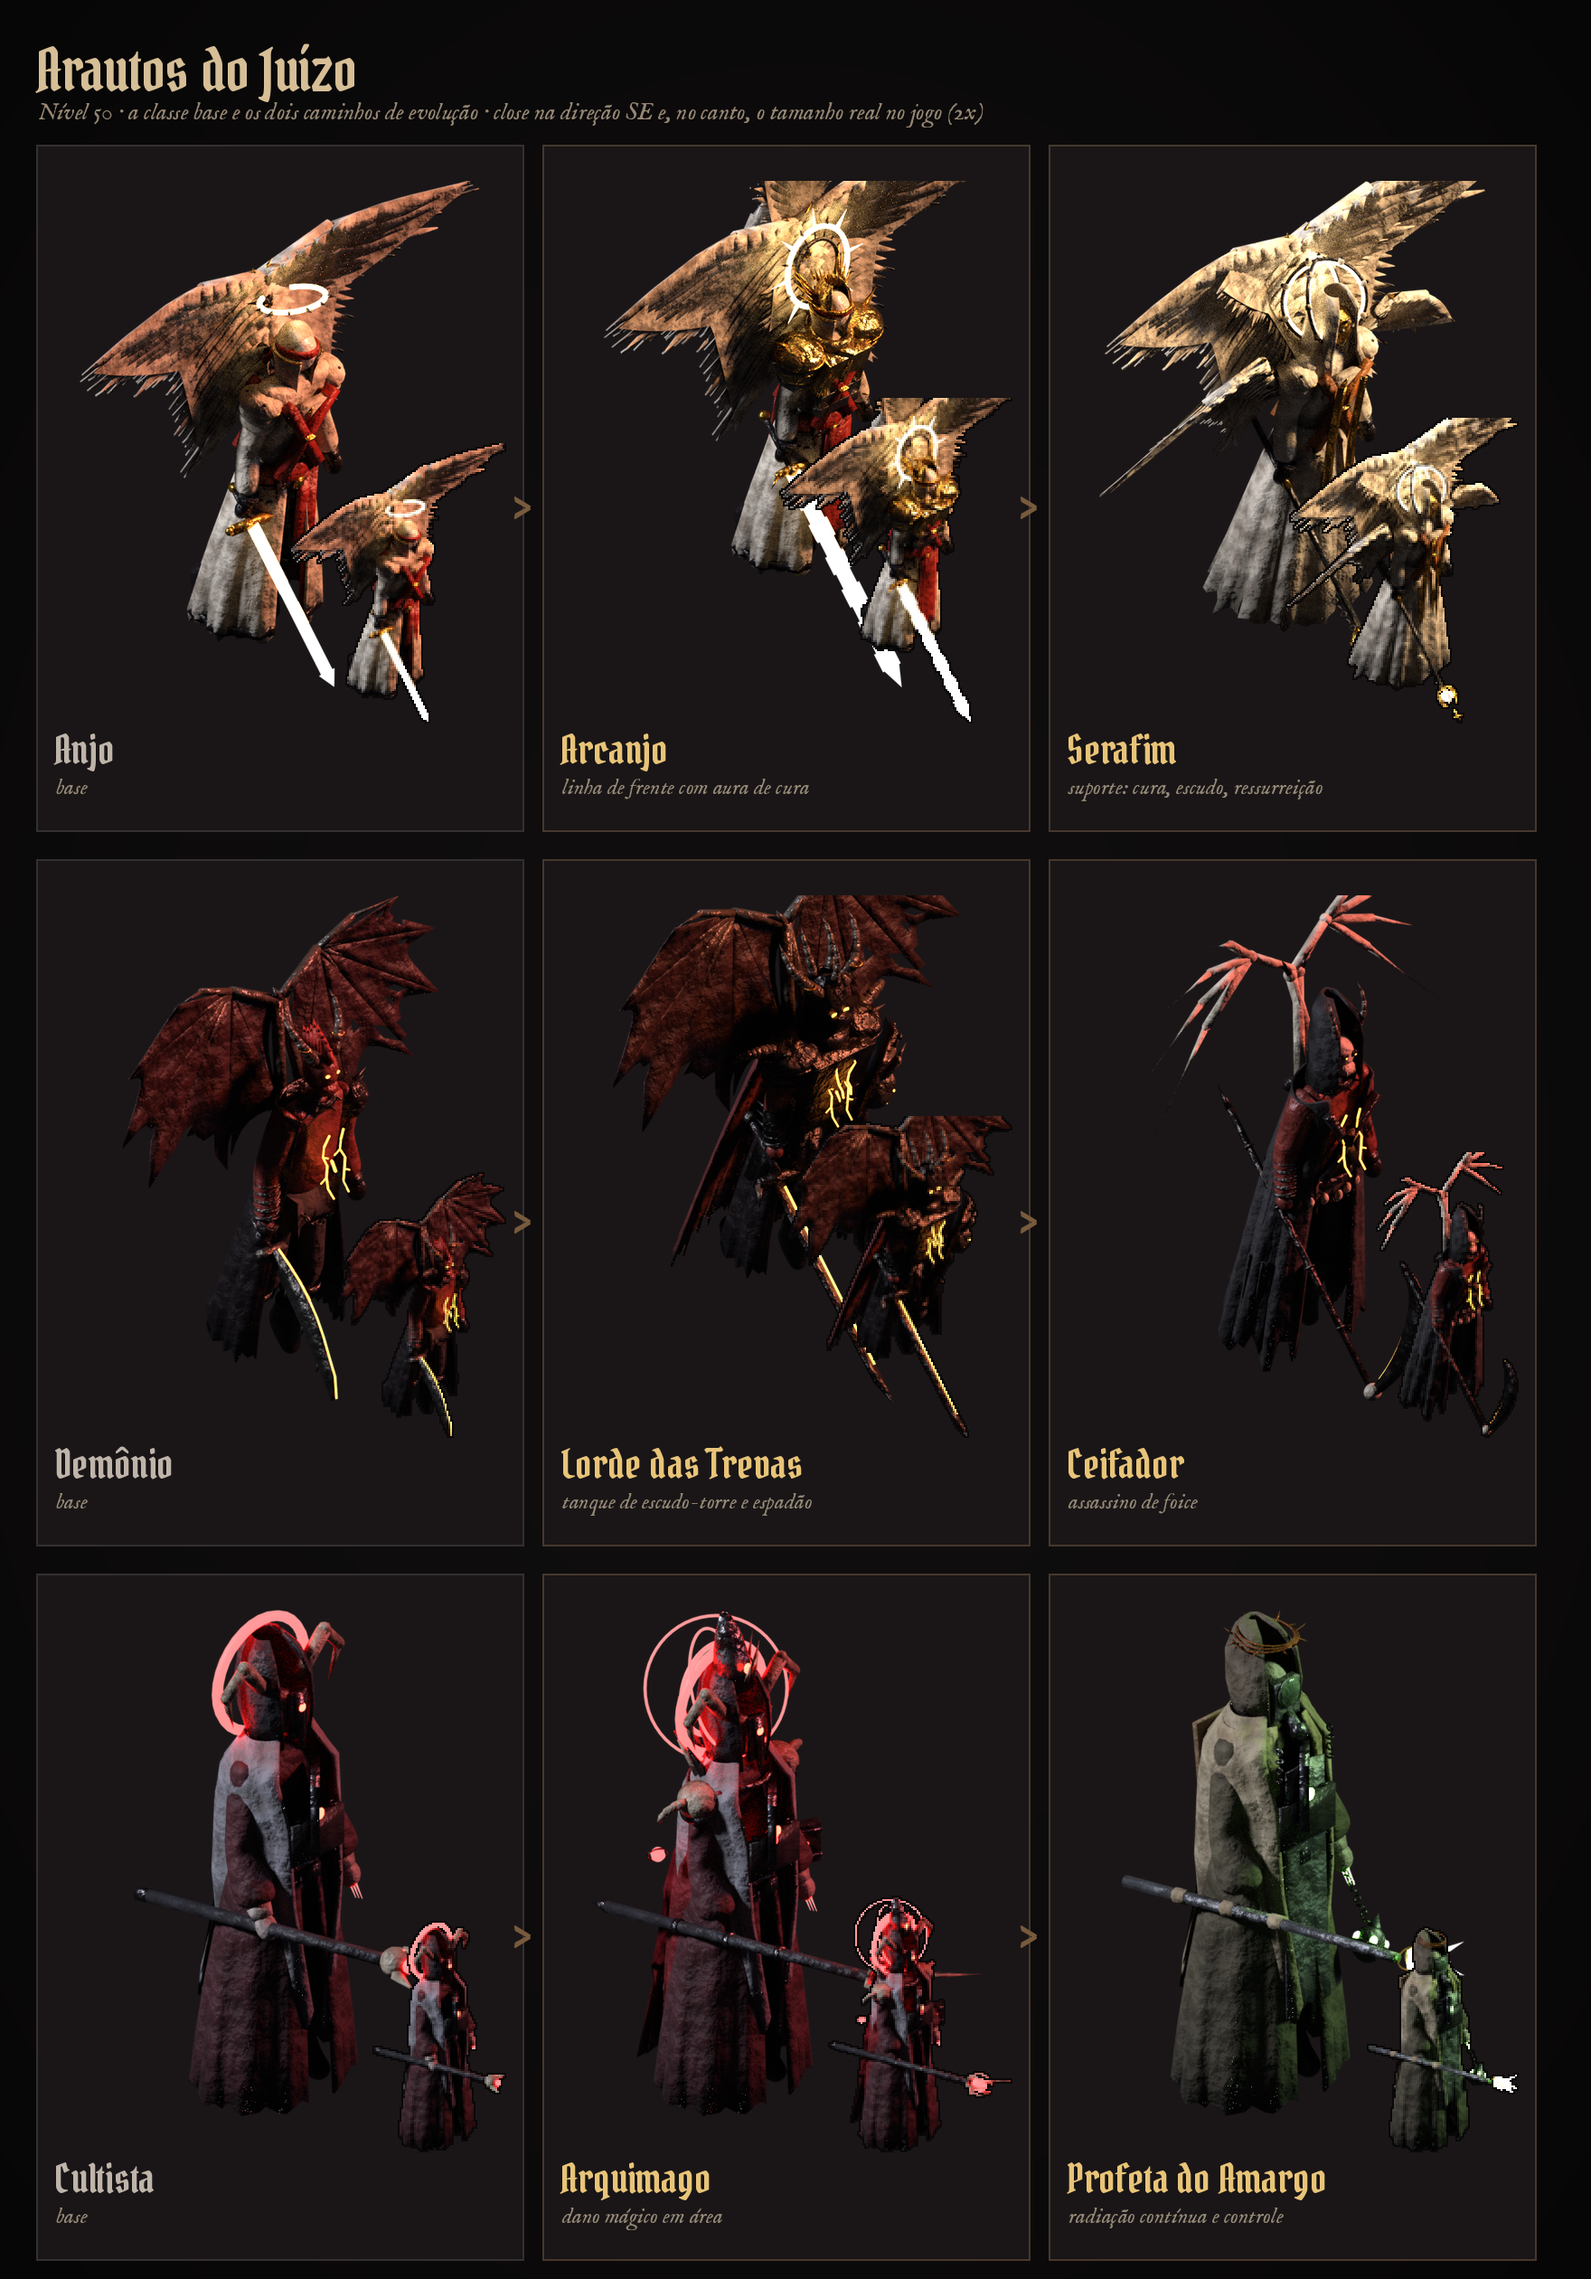
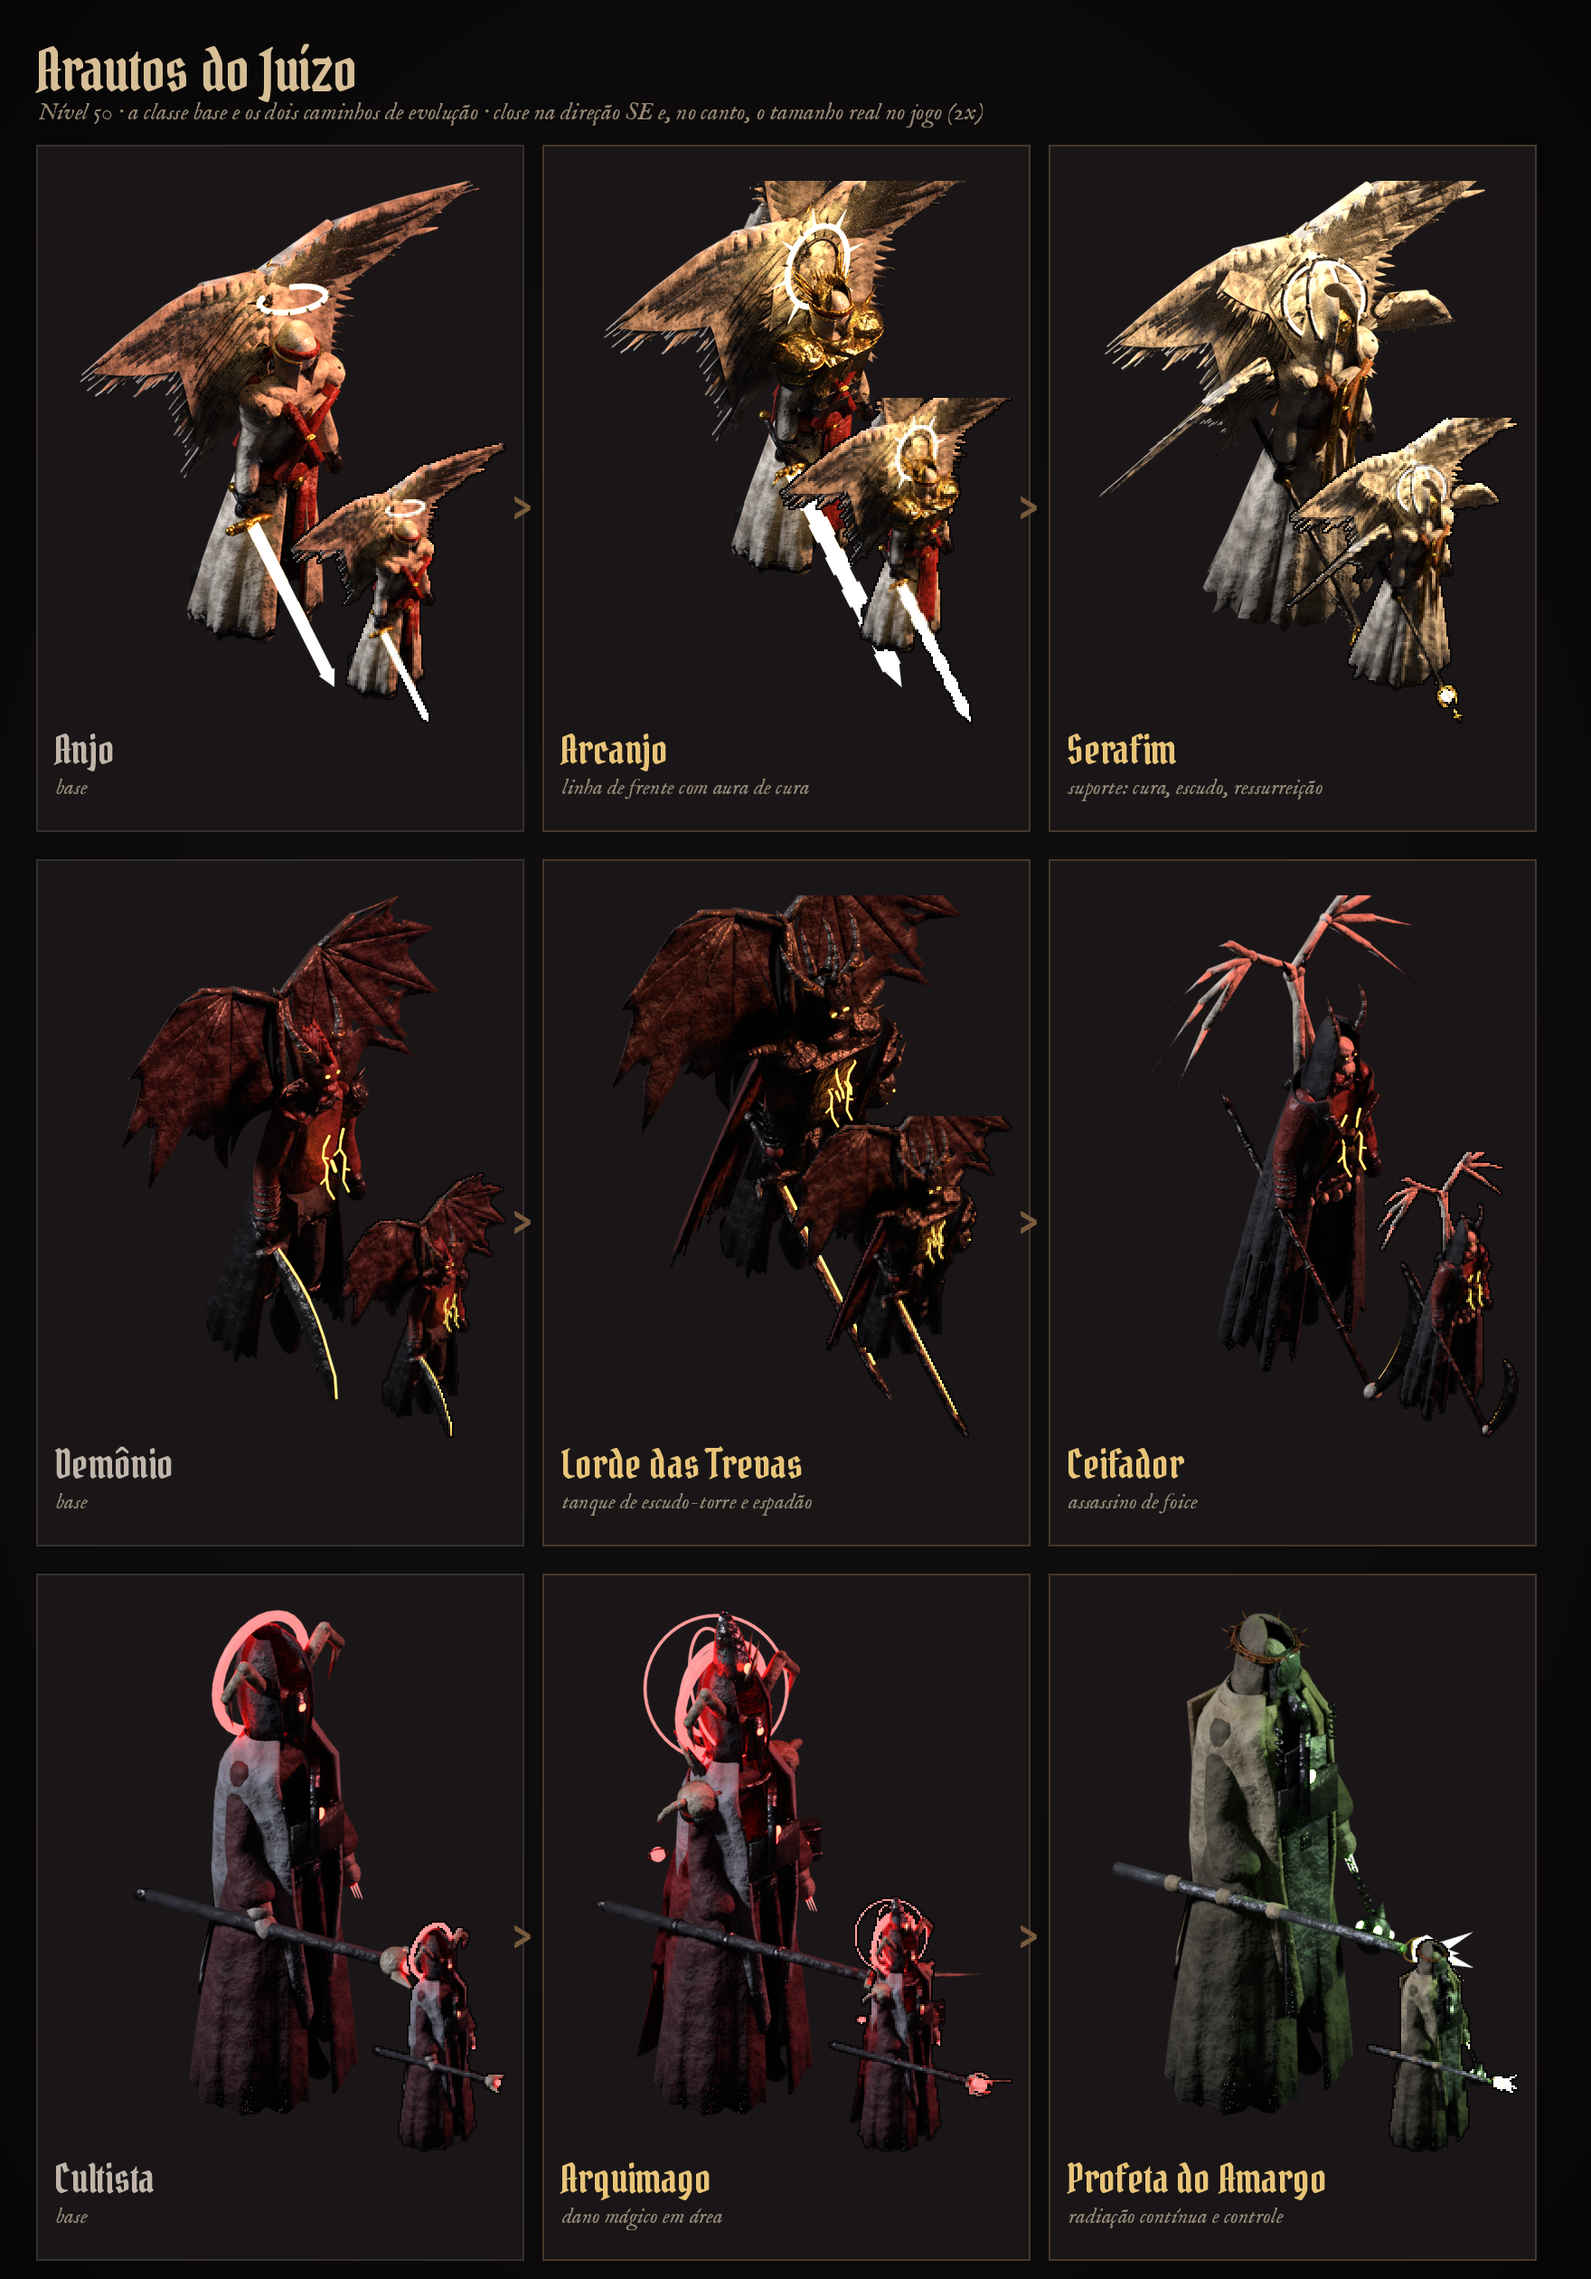
Evoluções: capuz arredondado no Ceifador, Profeta do Amargo e Mechanicus
Claude-Session: https://claude.ai/code/session_01Sknk5Bb29nZy4kpKu7zTkE

diff --git a/tools/sprite-pipeline/personagens/evolucoes.py b/tools/sprite-pipeline/personagens/evolucoes.py
@@ -47,6 +47,13 @@ def blade_mesh(name, m, pts, widths, normal, thick=.01):
         prev = pair
     o = obj_from_bm(name, bm, m); o.modifiers.new("s", 'SOLIDIFY').thickness = thick; _apply_mods(o); return o
 
+def cowl(name, m, seed=6, sc=1.0):
+    """Capuz arredondado que cobre o topo da cabeça e cai para trás (sem bico para cima)."""
+    rings = [(1.47,.17,.15,.02), (1.55,.13,.125,.01), (1.63,.107,.112,.0), (1.7,.1,.108,-.005), (1.76,.094,.104,-.008),
+             (1.8,.078,.092,-.008), (1.83,.05,.068,-.002), (1.845,.012,.02,.01)]
+    rings = [(z, rx*sc, ry*sc, yo) for z, rx, ry, yo in rings]
+    return skirt(name, m, rings, open_front=.85, seed=seed, folds=5, famp=.025, thick=.012)
+
 def tabard(name, m, x, y, z0, z1, w, seed=3, back=False):
     """Faixa de pano pendurada (tabardo/estola) com barra rasgada."""
     rnd = random.Random(seed); bm = bmesh.new(); rows = []
@@ -374,7 +381,7 @@ def ceifador():
                        [along("primitive_cone_add", black, o + ax*(.06 + .05*k) + Vector((0,.05,0)), o + ax*(.11 + .05*k) + Vector((0,.15,.03)), 1, radius1=.012, radius2=0, vertices=4) for k in range(3)], arm, "forearm.L"))
     # capuz fundo com máscara de crânio cornudo e olhos de brasa
     hd = [head_base(bone, (.072,.082,.1)),
-          skirt("capuz_ceifa", shroud, [(1.5,.14,.13,.0), (1.62,.13,.13,.0), (1.76,.13,.13,.01), (1.88,.1,.11,.03), (1.96,.04,.05,.07)], open_front=.62, thick=.012, folds=6, famp=.04),
+          cowl("capuz_ceifa", shroud, seed=41, sc=1.05),
           prim("primitive_uv_sphere_add", bone, (0,-.07,1.61), (.05,.04,.035))]
     for s in (1, -1):
         hd.append(prim("primitive_uv_sphere_add", leather, (.03*s,-.088,1.69), (.022,.012,.016)))
@@ -533,16 +540,16 @@ def profeta_do_amargo():
     parts.append(rigid(bk, arm, "chest"))
     # cabeça: capuz de aniagem, máscara de chumbo com visor de vidro rachado, coroa de arame farpado, olhos verdes
     hd = [head_base(skin, (.07,.08,.095), z=1.68),
-          skirt("capuz_profeta", blk, [(1.56,.12,.12,0), (1.7,.14,.14,.01), (1.82,.13,.13,.025), (1.9,.08,.09,.045), (1.94,.03,.03,.06)], open_front=.65, seed=6, folds=6, famp=.04, thick=.014),
+          cowl("capuz_profeta", blk, seed=6),
           plate(lead, (0,-.095,1.66), (.06,.02,.075)), prim("primitive_uv_sphere_add", glass, (0,-.12,1.69), (.055,.015,.06))]
     for s in (1, -1): hd.append(prim("primitive_uv_sphere_add", gem, (.024*s,-.126,1.7), (.011,.005,.008)))
     hd.append(along("primitive_cylinder_add", lead, (0,-.11,1.6), (0,-.17,1.55), .022, vertices=8))
     hd.append(prim("primitive_cylinder_add", metal, (0,-.175,1.545), (.032,.032,.02), (55,0,0), vertices=10))
     for k in range(3):
-        hd.append(prim("primitive_torus_add", rust, (0,0,1.87 + .012*k), (1,1,1), (4*(k - 1), 3*k, 0), major_radius=.12 - .006*k, minor_radius=.005, major_segments=24, minor_segments=4))
+        hd.append(prim("primitive_torus_add", rust, (0,-.005,1.745 + .008*k), (1,1,1), (10 + 3*(k - 1), 2*k, 0), major_radius=.118 - .004*k, minor_radius=.005, major_segments=24, minor_segments=4))
     for k in range(14):
         a = 2*math.pi*k/14; d = Vector((math.cos(a), math.sin(a), 0))
-        b = Vector((0,0,1.875)) + d*.118
+        b = Vector((0,-.005,1.75 + .025*max(0, d.y))) + d*.118
         hd.append(along("primitive_cone_add", rust, b, b + d*.04 + Vector((0,0,.03 if k % 2 else -.01)), 1, radius1=.006, radius2=0, vertices=4))
     parts.append(rigid(hd, arm, "head"))
     # turíbulo de Amargo pendurado da mão esquerda: esfera de chumbo furada com brilho verde
@@ -920,7 +927,7 @@ def mechanicus():
                        [prim("primitive_cylinder_add", rune, gc + Vector((0,-.008,0)), (.018,.018,.004), (90,0,0), vertices=10)], arm, "hips"))
     # cabeça: capuz de lona, máscara de latão com três lentes laranja, tubos até a caldeira
     hd = [head_base(skin),
-          skirt("capuz_mech", canvas, [(1.52,.13,.13,0), (1.64,.125,.13,0), (1.78,.12,.125,.01), (1.88,.09,.1,.03), (1.93,.03,.04,.05)], open_front=.62, thick=.012, folds=6, famp=.04),
+          cowl("capuz_mech", canvas, seed=11),
           plate(brass, (0,-.09,1.66), (.06,.03,.075))]
     for x, z, r in ((-.03,1.69,.018), (.03,1.69,.018), (0,1.635,.013)):
         hd.append(along("primitive_cylinder_add", iron, (x,-.115,z), (x,-.14,z), r + .006, vertices=12))
